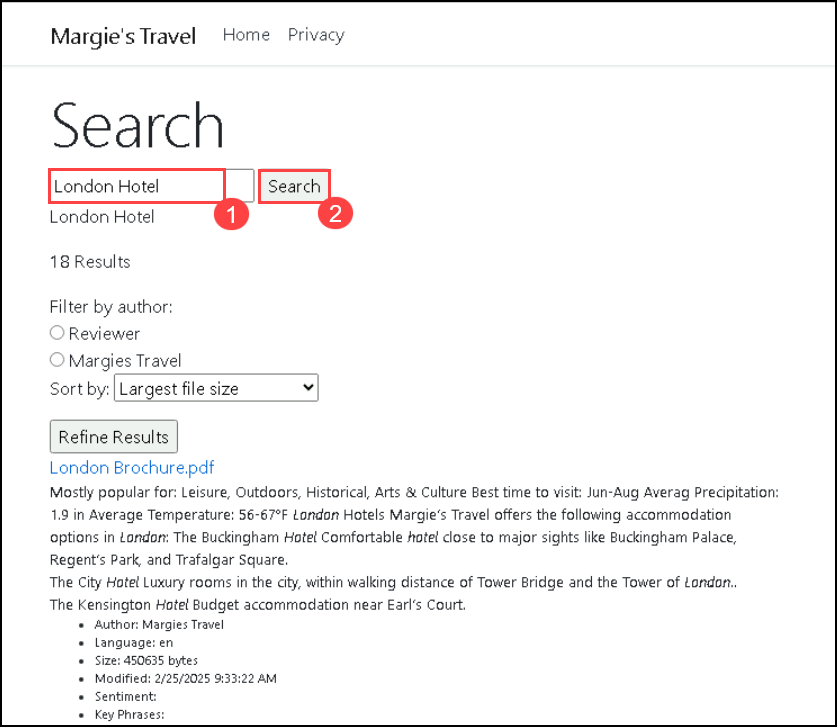
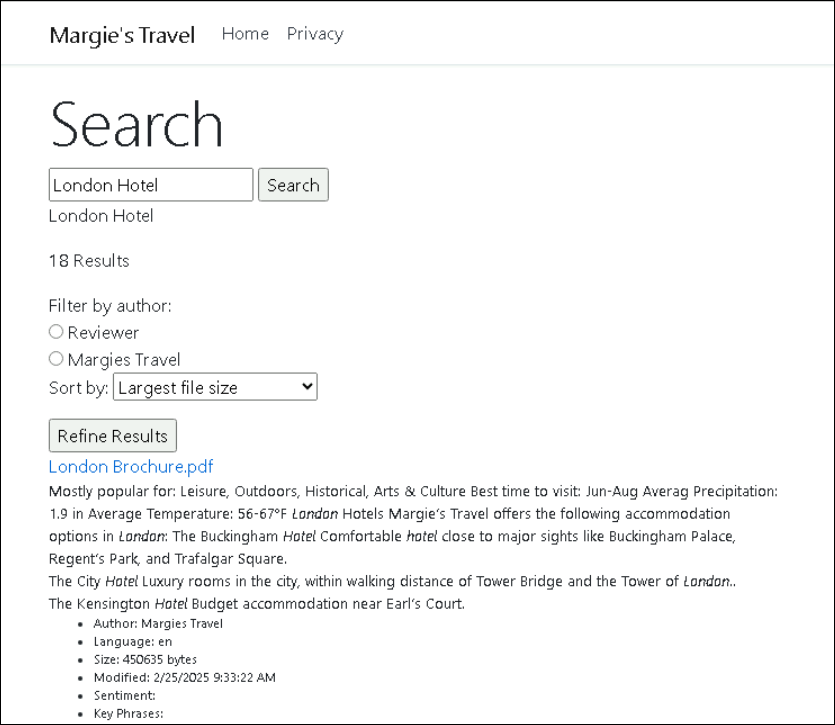
Updates

diff --git a/Coach/Solution-Guide/Challenge-2-gh.md b/Coach/Solution-Guide/Challenge-2-gh.md
@@ -728,7 +728,7 @@ In this task, you'll be running the Margie's Travel web application locally, sea
    
 1. Review the search results. They include the file name (with a hyperlink to the file URL), an extract of the file content with the search terms (*London* and *hotel*) emphasized, and other attributes of the file from the index fields.
 
-    ![](../media/Active-image96.png)
+    ![](../media/up9.png)
    
 1. Observe that the results page includes some user interface elements that enable you to refine the results. These include:
     
@@ -738,15 +738,15 @@ In this task, you'll be running the Margie's Travel web application locally, sea
 
 1. Select the **Margies Travel (1)** filter and the **Largest file size (2)** sort option, and then select **Refine Results (3)**.
 
-    ![](../media/Active-image97.png)
+    ![](../media/up10.png)
    
-1. Observe that the results are filtered to include only reviews and sorted based on the sentiment label.
+1. Observe that the results are filtered to include only reviews and sorted based on the Size label.
    
-    ![](../media/Active-image98.png)
+    ![](../media/up11.png)
    
 1. On the **Margie's Travel** website, enter **quiet hotel in New York (1)** into the search box and click **Search (2)**.
 
-    ![](../media/Active-image99.png)
+    ![](../media/up12.png)
    
 1. Try the following search terms:
     - **Tower of London** (observe that this term is identified as a *key phrase* in some documents).
